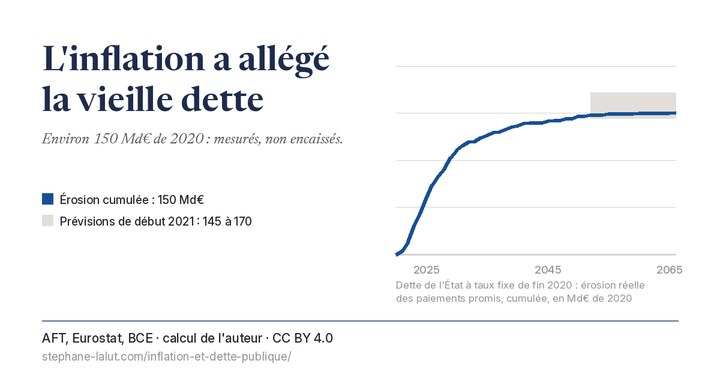
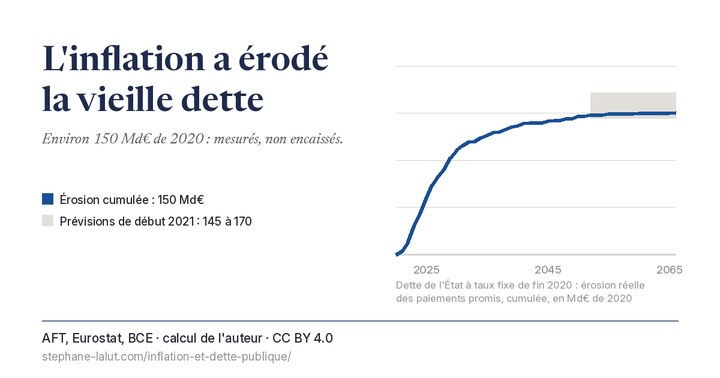
fix(inflation): page inflation et dette apres contre-expertise de la page en ligne (Wolf-05, 08/10) -- SPF dit zone euro et justifie comme reference (seul horizon au-dela de 2023, date d'information unique ; garde « encadrent », mutation encadre vue mordre) ; « l'avantage consolide se reduit » ; con

Changed region(s): [[0.3056, 0.1164, 0.4583, 0.2037]]

diff --git a/scripts/update_dette_inflation.py b/scripts/update_dette_inflation.py
@@ -15,7 +15,7 @@ Témoins de la méthode, dans le script de recherche : IPCH mensuel Eurostat con
 en moyennes annuelles (v2, 143,2) et sans correction saisonnière ; identité de consolidation contre l'arbitre 5. Ici, la
 seule cohérence vérifiée est l'agrégation par année de paiement, qui partage la fonction de perte : elle n'est pas un témoin.
 
-Usage : python scripts/update_dette_inflation.py [--check] [--mutation=demi|indexes|consolidation]
+Usage : python scripts/update_dette_inflation.py [--check] [--mutation=demi|indexes|consolidation|encadre]
 Sorties : data/ et static/dette_inflation.json, static/dette_inflation.csv, data/figures_inflation.json,
           static/img/dette-inflation-calendrier{,-en}.svg + .png
 """
@@ -123,6 +123,8 @@ def mutation(c):
         c["idx_j"] = 27.0
     elif m == "consolidation":  # la consolidation retirerait l'érosion pendant l'épisode
         c["cons23"] = 0.8 * c["T"]
+    elif m == "encadre":       # le SPF sortirait de l'intervalle des trois prévisions françaises
+        list(c["A"].values())[0]["r=0%"] = 999.0
     elif m is not None:
         fail("mutation inconnue : %s" % m)
     return m
@@ -143,6 +145,8 @@ def gardes(c):
     # cohérence (non indépendante : même fonction de perte) : l'agrégation par année redonne le total
     g(abs(c["cum"][max(c["cum"])] - T) <= 0.15, "le cumul par année de paiement ne redonne pas le total (%.1f contre %.1f)" % (c["cum"][max(c["cum"])], T))
     g(c["A_r0"][0] <= T <= c["A_r0"][1], "le central (SPF) doit être dans la plage de la famille A")
+    fr = [v["r=0%"] for v in list(c["A"].values())[1:]]  # Banque de France, Commission automne, hiver : propres à la France
+    g(min(fr) < list(c["A"].values())[0]["r=0%"] < max(fr), "« les trois prévisions propres à la France encadrent » le SPF : %s" % fr)
     g(min(c["B"].values()) > T, "« les points morts de marché donneraient davantage » : %s" % c["B"])
     g(c["T"] > c["T_annuel"], "« plus élevé que le calcul en moyennes annuelles »")
     g(abs(c["T_sans_saison"] - T) < 1.0, "« la correction saisonnière ne change presque rien »")
@@ -155,7 +159,7 @@ def gardes(c):
     g(c["defl_spf"] < c["T_annuel"] and c["defl_ce"] < c["T_annuel"], "« plus faible en unités de production intérieure »")
     g(abs(c["idx_j"] - 20) <= 2.5 and abs(c["idx_1"] - c["idx_j"]) <= 1.0, "« environ 20 Md€, la même chose avec un seul point mort » : %.1f / %.1f" % (c["idx_j"], c["idx_1"]))
     g(c["cons23"] >= 0.95 * T, "« consolidée, l'érosion reste presque entière fin 2023 » : %.1f" % c["cons23"])
-    g(c["cons25"] < c["cons23"] - 10, "« puis une partie est rendue en 2024-2025 »")
+    g(c["cons25"] < c["cons23"] - 10, "« puis l'avantage consolidé se réduit en 2024-2025 »")
     g(0.10 <= c["pal_residu"] / c["pal_total"] <= 0.16, "« résidu d'environ 13 %% » : %.3f" % (c["pal_residu"] / c["pal_total"]))
     g(c["charge_aft"][2022] == max(c["charge_aft"].values()), "« la charge d'indexation a culminé en 2022 »")
     g(0 < 100 - sum(c["parts"].values()) < 5 and c["parts"]["non_residents"] == max(c["parts"].values()),

diff --git a/scripts/og_dossier_dette.py b/scripts/og_dossier_dette.py
@@ -578,7 +578,7 @@ def carte_inflation() -> None:
     if not E:
         fail("carte inflation EN : bloc affichage_en absent de data/dette_inflation.json")
     carte("og-dette-inflation.jpg",
-          ["L'inflation a allégé", "la vieille dette"],
+          ["L'inflation a érodé", "la vieille dette"],
           "Environ %s Md€ de 2020 : mesurés, non encaissés." % A["t"],
           "AFT, Eurostat, BCE · calcul de l'auteur · CC BY 4.0",
           "stephane-lalut.com/inflation-et-dette-publique/",

diff --git a/content/inflation-et-dette-publique/_index.md b/content/inflation-et-dette-publique/_index.md
@@ -6,7 +6,7 @@ date: 2026-10-07
 lastmod: 2026-10-07
 og_title: "L'inflation a-t-elle vraiment allégé la dette française ? — S. Lalut"
 og_image: "images/og-dette-inflation.jpg"
-og_image_alt: "Carte de partage : « L'inflation a allégé la vieille dette » — érosion réelle cumulée des paiements promis sur la dette de l'État à taux fixe de fin 2020, au fil des paiements, et plage des prévisions publiées début 2021."
+og_image_alt: "Carte de partage : « L'inflation a érodé la vieille dette » — érosion réelle cumulée des paiements promis sur la dette de l'État à taux fixe de fin 2020, au fil des paiements, et plage des prévisions publiées début 2021."
 # Page née d'une question reçue le 6/10/2026. Recherche : dépôt de recherche de l'auteur, chantier inflation et dette (V3 du 07/10,
 # scripts/v3.py) ; quatre contre-expertises et arbitrage PRO-20261007-091811 (huit phrases, V3 en huit opérations).
 # Aucun chiffre saisi : jetons {infl.*} et shortcode infl-val (scripts/update_dette_inflation.py, extrait figé et empreintes
@@ -35,7 +35,7 @@ faq:
   - question: "Pourquoi n'est-ce pas un gain budgétaire pour l'État ?"
     answer: "Parce que l'érosion porte sur des paiements qui s'étalent jusqu'en {infl.fin} : un cinquième seulement avait été payé fin 2023, environ la moitié le sera d'ici {infl.demi}. Parce que l'État a émis ensuite à des taux plus élevés, sans qu'on puisse dire quelle part de cette hausse l'épisode a causée. Et parce que les titres indexés, la Banque de France et le numéraire choisi modifient la lecture : exprimée en unités de production intérieure plutôt qu'en pouvoir d'achat du consommateur, la même érosion est plus faible."
   - question: "Qui a perdu ce que la dette a perdu en valeur réelle ?"
-    answer: "Les porteurs directs des titres, d'abord : à la fin de 2020, la moitié de la dette négociable de l'État était détenue par des non-résidents, près d'un quart par la Banque de France. Mais le porteur direct n'est pas forcément le perdant final : les assureurs, les banques et les fonds ont eux-mêmes des engagements nominaux, et les titres changent de mains. La page donne une allocation mécanique selon la structure de détention de fin 2020, qui n'identifie pas l'incidence finale."
+    answer: "On sait quels secteurs détenaient les titres ; on ne sait pas en déduire qui a supporté la perte finale. À la fin de 2020, la moitié de la dette négociable de l'État était détenue par des non-résidents, près d'un quart par la Banque de France. Mais le porteur direct n'est pas forcément le perdant final : les assureurs, les banques et les fonds ont eux-mêmes des engagements nominaux, et les titres changent de mains. La page donne une allocation mécanique selon la structure de détention de fin 2020, qui n'identifie pas l'incidence finale."
   - question: "Quel est le lien avec le livre Dette publique : qui paie vraiment ?"
     answer: "L'inflation est l'un des payeurs possibles de la dette : l'épargnant, par la perte de pouvoir d'achat de ses titres. Cette page mesure ce que l'épisode de 2021-2023 a retiré par ce canal sur la dette de l'État, et ce qu'on ne peut pas en conclure. Le livre examine les autres payeurs et les choix qui les désignent."
 ressource:  # index /ressources/ (layouts/ressources/list.html)
@@ -83,7 +83,7 @@ Les données disponibles ne permettent pas d'identifier quelle part de la hausse
 
 **Les titres indexés ont joué en sens inverse.** Fin 2020, {{< infl-val "idx_n" >}}&nbsp;titres indexés sur l'inflation, pour {{< infl-val "idx_encours" >}}&nbsp;milliards d'euros, échappaient à l'érosion. Émis à taux fixe, ils auraient transféré environ {{< infl-val "idx" >}}&nbsp;milliards de plus. Dans le budget de l'État, leur charge d'indexation a culminé à {{< infl-val "charge22" >}}&nbsp;milliards d'euros courants en 2022 (AFT).
 
-<details class="repli"><summary>Consolidation simplifiée avec la Banque de France&nbsp;: l'érosion reste presque entière pendant l'épisode, puis une partie est rendue</summary>
+<details class="repli"><summary>Consolidation simplifiée avec la Banque de France&nbsp;: l'érosion reste presque entière pendant l'épisode, puis l'avantage consolidé se réduit</summary>
 
 Fin 2020, la Banque de France détenait {{< infl-val "s_bdf" >}}&nbsp;% de la dette négociable de l'État, achetée en créant des réserves bancaires. Dans un bilan qui réunit l'État et sa banque centrale, ces titres s'annulent contre l'actif de la banque centrale, et la dette de l'ensemble devient, pour cette part, la réserve, rémunérée au taux de la facilité de dépôt. L'identité s'écrit&nbsp;:
 
@@ -97,7 +97,7 @@ Parce que le taux de dépôt est resté à −0,5&nbsp;% jusqu'en juillet 2022 p
 
 ## Ce qui fait varier le chiffre {#sensibilite}
 
-**La prévision de départ.** Quatre prévisions d'inflation pour la France publiées entre novembre 2020 et février 2021 donnent&nbsp;: {{< infl-val "spf" >}}&nbsp;milliards avec l'enquête de la BCE auprès des prévisionnistes professionnels (janvier 2021, retenue comme référence), {{< infl-val "bdf" >}} avec les projections de la Banque de France (décembre 2020), {{< infl-val "ce_aut" >}} et {{< infl-val "ce_hiv" >}} avec celles de la Commission européenne (automne 2020, hiver 2021). La Commission ne publiait pas d'horizon 2023&nbsp;: sa prévision de 2022, 1,5&nbsp;%, est reconduite pour 2023, son dernier horizon publié. Au-delà de 2023, toutes reviennent au chemin de l'enquête de la BCE, si bien que seules les années de l'épisode diffèrent.
+**La prévision de départ.** Quatre prévisions d'inflation publiées entre novembre 2020 et février 2021 donnent&nbsp;: {{< infl-val "spf" >}}&nbsp;milliards avec l'enquête de la BCE auprès des prévisionnistes professionnels (janvier 2021, zone euro), {{< infl-val "bdf" >}} avec les projections de la Banque de France (décembre 2020), {{< infl-val "ce_aut" >}} et {{< infl-val "ce_hiv" >}} avec celles de la Commission européenne (automne 2020, hiver 2021). La Commission ne publiait pas d'horizon 2023&nbsp;: sa prévision de 2022, 1,5&nbsp;%, est reconduite pour 2023, son dernier horizon publié. Au-delà de 2023, toutes reviennent au chemin de l'enquête de la BCE, si bien que seules les années de l'épisode diffèrent. L'enquête de la BCE sert de référence parce qu'elle est la seule des quatre à couvrir tout l'horizon des paiements, au-delà de 2023 jusqu'au long terme, et qu'elle fixe une date d'information unique, janvier 2021, quand le niveau des prix de décembre 2020 est connu&nbsp;; elle porte sur la zone euro, et les trois prévisions propres à la France encadrent le résultat qu'elle donne.
 
 **Le prix de marché.** Les points morts d'inflation, écarts de rendement entre titres nominaux et indexés au 31&nbsp;décembre 2020 (AFT), donneraient davantage&nbsp;: {{< infl-val "b_fr" >}}&nbsp;milliards avec le point mort français à 10&nbsp;ans, {{< infl-val "b_eu" >}} avec celui de la zone euro. Ils incorporent des primes de risque et de liquidité, qui les tiraient alors vers le bas&nbsp;: ils ne servent ici qu'à la sensibilité, non à la plage.
 
@@ -128,7 +128,7 @@ Elles ne mesurent pas l'effet budgétaire total de l'inflation&nbsp;: ni les rec
 
 ## Ce qu'il faut retenir {#retenir}
 
-L'inflation a bien allégé la dette ancienne&nbsp;: environ {{< infl-val "t" >}}&nbsp;milliards d'euros de 2020 de paiements promis sur la dette de l'État à taux fixe de fin 2020 valent moins que prévu, et cette perte de valeur réelle ne sera pas rendue si l'écart de prix persiste.
+L'inflation a bien allégé la valeur réelle de la dette ancienne&nbsp;: environ {{< infl-val "t" >}}&nbsp;milliards d'euros de 2020 de paiements promis sur la dette de l'État à taux fixe de fin 2020 valent moins que prévu, et cette perte de valeur réelle ne sera pas rendue si l'écart de prix persiste.
 
 On mesure assez bien cette érosion de la vieille dette nominale. On ne peut pas, honnêtement, la convertir en un gain budgétaire aussi précis&nbsp;: elle se réalise lentement, elle se mesure différemment selon le numéraire, et le coût des financements qui ont suivi n'est pas attribuable à l'épisode dans une proportion connue.
 
@@ -158,7 +158,7 @@ Cette page mesure ce que l'inflation de 2021-2023 a retiré, en valeur réelle, 
 
 **Anticipations.** BCE, *Survey of Professional Forecasters*, premier trimestre 2021 (zone euro&nbsp;; 2024 interpolé entre ses horizons 2023 et 2025, puis son anticipation de long terme)&nbsp;; Banque de France, projections de décembre 2020&nbsp;; Commission européenne, prévisions d'automne 2020 et d'hiver 2021. Points morts au 31&nbsp;décembre 2020&nbsp;: AFT (source Bloomberg).
 
-**Titres indexés.** Les {{< infl-val "idx_n" >}}&nbsp;titres indexés de fin 2020 reçoivent, dans le contrefactuel, un coupon fixe égal à leur coupon réel augmenté du point mort de même indice et de même maturité&nbsp;: au 31&nbsp;décembre 2020, l'AFT publie quatre points (France 5 et 10&nbsp;ans, zone euro 10 et 30&nbsp;ans), interpolés selon la maturité résiduelle&nbsp;; faute de point court pour la zone euro, la courbe française est décalée de l'écart observé à 10&nbsp;ans. Résultat&nbsp;: {{< infl-val "idx_j" >}}&nbsp;milliards, contre {{< infl-val "idx_1" >}} avec le seul point mort à 10&nbsp;ans de la zone euro. En ajoutant l'écart entre l'indice de chaque titre et l'IPCH français ({{< infl-val "idx_ecart" >}}&nbsp;milliards), le coût économique de la protection atteint {{< infl-val "idx_tot" >}}&nbsp;milliards. La charge d'indexation de l'AFT ({{< infl-val "charge_cum" >}}&nbsp;milliards d'euros courants de 2021 à 2025) porte sur tout l'encours indexé de chaque année, émissions nouvelles comprises&nbsp;: ce n'est pas la même grandeur.
+**Titres indexés.** Les {{< infl-val "idx_n" >}}&nbsp;titres indexés de fin 2020 reçoivent, dans le contrefactuel, un coupon fixe égal à leur coupon réel augmenté du point mort de même indice et de même maturité&nbsp;: au 31&nbsp;décembre 2020, l'AFT publie quatre points (France 5 et 10&nbsp;ans, zone euro 10 et 30&nbsp;ans), interpolés selon la maturité résiduelle&nbsp;; faute de point court pour la zone euro, la courbe française est décalée de l'écart observé à 10&nbsp;ans. Résultat&nbsp;: {{< infl-val "idx_j" >}}&nbsp;milliards, contre {{< infl-val "idx_1" >}} avec le seul point mort à 10&nbsp;ans de la zone euro. En ajoutant l'écart entre l'indice de chaque titre et l'IPCH français ({{< infl-val "idx_ecart" >}}&nbsp;milliards), ce que la protection vendue aux porteurs a coûté à l'État, une fois le risque réalisé, atteint {{< infl-val "idx_tot" >}}&nbsp;milliards. La charge d'indexation de l'AFT ({{< infl-val "charge_cum" >}}&nbsp;milliards d'euros courants de 2021 à 2025) porte sur tout l'encours indexé de chaque année, émissions nouvelles comprises&nbsp;: ce n'est pas la même grandeur.
 
 **Consolidation.** Part de la Banque de France dans la dette négociable de l'État fin 2020&nbsp;: Banque de France, Webstat (détention par secteur, valeur de marché). Réserves approchées par la valeur de marché des avoirs de la Banque de France en titres de l'État en début d'année&nbsp;; taux de dépôt de la BCE en moyenne annuelle.
 
@@ -172,7 +172,7 @@ C'est une allocation mécanique, pas une mesure de qui a perdu. Les titres chang
 
 </details>
 
-Aucun chiffre de cette page n'est saisi à la main&nbsp;: tous viennent d'un calcul de l'auteur, reproductible, dont l'extrait est archivé avec ses empreintes&nbsp;; le script qui écrit la page vérifie les principales affirmations chiffrées et s'arrête si leurs conditions ne sont plus remplies. Le calcul a été soumis, avant l'écriture, à sept relectures internes et à quatre contre-expertises indépendantes.
+Aucun chiffre de cette page n'est saisi à la main&nbsp;: tous viennent d'un calcul de l'auteur, reproductible, dont l'extrait est archivé avec ses empreintes&nbsp;; le script qui écrit la page vérifie les principales affirmations chiffrées et s'arrête si leurs conditions ne sont plus remplies. Avant l'écriture, le calcul a été soumis à des contre-expertises externes, qui ont fait changer le calendrier des prix, la construction de la plage et le traitement des titres indexés.
 
 {{< reutiliser figures="figures_inflation" jeu="dette_inflation" sources="AFT, Eurostat, BCE, Banque de France, Commission européenne" donnees="L'érosion réelle cumulée par année de paiement, les résultats selon chaque prévision et chaque point mort, les titres indexés, la consolidation simplifiée et l'allocation mécanique par détenteur ; le même contenu existe en CSV, au format long." >}}
 Dans le contrefactuel de cette page, l'écart entre l'inflation réalisée en 2021-2023 et celle anticipée début 2021 réduit d'environ {{< infl-val "t" >}}&nbsp;milliards d'euros de 2020 la valeur réelle des paiements promis sur la dette de l'État à taux fixe de fin 2020 (de {{< infl-val "a_bas" >}} à {{< infl-val "a_haut" >}} selon la prévision retenue)&nbsp;; environ la moitié se matérialise d'ici {{< infl-val "demi" >}}. Ce n'est pas un gain budgétaire net identifiable.

diff --git a/content/inflation-et-dette-publique/_index.en.md b/content/inflation-et-dette-publique/_index.en.md
@@ -33,7 +33,7 @@ faq:
   - question: "Why is this not a fiscal gain for the State?"
     answer: "Because the erosion falls on payments spread out until {infl.fin}: only a fifth had been paid by end-2023, about half will have been by {infl.demi}. Because the State then borrowed at higher rates, and no one can say how much of that rise the episode caused. And because inflation-linked bonds, the Banque de France and the unit of account change the reading: measured in units of domestic output rather than in consumer purchasing power, the same erosion is smaller."
   - question: "Who lost what the debt lost in real value?"
-    answer: "The direct holders of the bonds, in the first place: at end-2020, half of France's negotiable State debt was held by non-residents and nearly a quarter by the Banque de France. But the direct holder is not necessarily the final loser: insurers, banks and funds have nominal liabilities of their own, and bonds change hands. The page gives a mechanical allocation by end-2020 holdings, which does not identify the final incidence."
+    answer: "We know which sectors held the bonds; we cannot infer from that who bore the final loss. At end-2020, half of France's negotiable State debt was held by non-residents and nearly a quarter by the Banque de France. But the direct holder is not necessarily the final loser: insurers, banks and funds have nominal liabilities of their own, and bonds change hands. The page gives a mechanical allocation by end-2020 holdings, which does not identify the final incidence."
 ressource:
   bloc: "dette"
   rang: 45
@@ -77,7 +77,7 @@ The available data do not identify how much of the later rise in funding costs w
 
 **Inflation-linked bonds worked the other way.** At end-2020, {{< infl-val "idx_n" >}} inflation-linked bonds, worth €{{< infl-val "idx_encours" >}}bn, escaped the erosion. Issued at a fixed rate, they would have transferred about €{{< infl-val "idx" >}}bn more. In the State budget, their indexation charge peaked at €{{< infl-val "charge22" >}}bn (current euros) in 2022 (AFT).
 
-<details class="repli"><summary>Simplified consolidation with the Banque de France: the erosion stays almost whole during the episode, then part of it is given back</summary>
+<details class="repli"><summary>Simplified consolidation with the Banque de France: the erosion stays almost whole during the episode, then the consolidated advantage shrinks</summary>
 
 At end-2020 the Banque de France held {{< infl-val "s_bdf" >}}% of the State's negotiable debt, bought by creating bank reserves. In a balance sheet that combines the State and its central bank, those bonds cancel against the central bank's assets, and the liability of the whole becomes, for that share, the reserves, remunerated at the deposit facility rate. The identity reads:
 
@@ -91,7 +91,7 @@ Because the deposit rate stayed at −0.5% until July 2022 while prices rose, re
 
 ## What moves the number {#sensibilite}
 
-**The starting forecast.** Four inflation forecasts for France published between November 2020 and February 2021 give: €{{< infl-val "spf" >}}bn with the ECB Survey of Professional Forecasters (January 2021, used as the reference), {{< infl-val "bdf" >}} with the Banque de France projections (December 2020), {{< infl-val "ce_aut" >}} and {{< infl-val "ce_hiv" >}} with those of the European Commission (autumn 2020, winter 2021). The Commission published no 2023 horizon: its 2022 forecast, 1.5%, is carried over to 2023, its last published horizon. Beyond 2023, all of them return to the ECB survey's path, so only the years of the episode differ.
+**The starting forecast.** Four inflation forecasts published between November 2020 and February 2021 give: €{{< infl-val "spf" >}}bn with the ECB Survey of Professional Forecasters (January 2021, euro area), {{< infl-val "bdf" >}} with the Banque de France projections (December 2020), {{< infl-val "ce_aut" >}} and {{< infl-val "ce_hiv" >}} with those of the European Commission (autumn 2020, winter 2021). The Commission published no 2023 horizon: its 2022 forecast, 1.5%, is carried over to 2023, its last published horizon. Beyond 2023, all of them return to the ECB survey's path, so only the years of the episode differ. The ECB survey is the reference because it is the only one of the four to cover the whole horizon of payments, beyond 2023 to the long term, and it fixes a single information date, January 2021, when the December 2020 price level is known; it covers the euro area, and the three forecasts specific to France bracket the result it gives.
 
 **The market price.** Breakeven inflation rates, the yield gap between nominal and inflation-linked bonds at 31 December 2020 (AFT), would give more: €{{< infl-val "b_fr" >}}bn with the French 10-year breakeven, {{< infl-val "b_eu" >}} with the euro-area one. They embed risk and liquidity premia, which then pulled them down: they serve only as a sensitivity here, not for the range.
 
@@ -122,7 +122,7 @@ They do not measure the total fiscal effect of inflation: neither tax revenue sw
 
 ## Key takeaways {#retenir}
 
-Inflation did ease the old debt: about €{{< infl-val "t" >}}bn of 2020 of payments promised on France's fixed-rate State debt at end-2020 are worth less than expected, and that loss of real value will not be given back if the price gap persists.
+Inflation did ease the real value of the old debt: about €{{< infl-val "t" >}}bn of 2020 of payments promised on France's fixed-rate State debt at end-2020 are worth less than expected, and that loss of real value will not be given back if the price gap persists.
 
 We can measure the erosion of the old nominal debt quite well. What we cannot honestly turn it into is an equally precise fiscal gain: it is realised slowly, it is measured differently depending on the unit of account, and the cost of the borrowing that followed cannot be attributed to the episode in any known proportion.
 
@@ -142,7 +142,7 @@ This page measures what the 2021-2023 inflation took, in real terms, from the St
 
 **Expectations.** ECB, *Survey of Professional Forecasters*, first quarter of 2021 (euro area; 2024 interpolated between its 2023 and 2025 horizons, then its long-term expectation); Banque de France, December 2020 projections; European Commission, autumn 2020 and winter 2021 forecasts. Breakevens at 31 December 2020: AFT (Bloomberg data).
 
-**Inflation-linked bonds.** In the counterfactual, the {{< infl-val "idx_n" >}} inflation-linked bonds outstanding at end-2020 receive a fixed coupon equal to their real coupon plus the breakeven of the same index and maturity: at 31 December 2020 the AFT publishes four points (France 5 and 10 years, euro area 10 and 30 years), interpolated by residual maturity; with no short euro-area point, the French curve is shifted by the gap observed at 10 years. Result: €{{< infl-val "idx_j" >}}bn, against {{< infl-val "idx_1" >}} with the euro-area 10-year breakeven alone. Adding the gap between each bond's index and the French HICP (€{{< infl-val "idx_ecart" >}}bn), the economic cost of the protection reaches €{{< infl-val "idx_tot" >}}bn. The AFT's indexation charge (€{{< infl-val "charge_cum" >}}bn in current euros from 2021 to 2025) covers the whole indexed stock of each year, new issues included: it is not the same quantity.
+**Inflation-linked bonds.** In the counterfactual, the {{< infl-val "idx_n" >}} inflation-linked bonds outstanding at end-2020 receive a fixed coupon equal to their real coupon plus the breakeven of the same index and maturity: at 31 December 2020 the AFT publishes four points (France 5 and 10 years, euro area 10 and 30 years), interpolated by residual maturity; with no short euro-area point, the French curve is shifted by the gap observed at 10 years. Result: €{{< infl-val "idx_j" >}}bn, against {{< infl-val "idx_1" >}} with the euro-area 10-year breakeven alone. Adding the gap between each bond's index and the French HICP (€{{< infl-val "idx_ecart" >}}bn), what the protection sold to holders cost the State, once the risk materialised, reaches €{{< infl-val "idx_tot" >}}bn. The AFT's indexation charge (€{{< infl-val "charge_cum" >}}bn in current euros from 2021 to 2025) covers the whole indexed stock of each year, new issues included: it is not the same quantity.
 
 **Consolidation.** Banque de France share of the State's negotiable debt at end-2020: Banque de France, Webstat (holdings by sector, market value). Reserves proxied by the market value of the Banque de France's holdings of State bonds at the start of each year; ECB deposit rate, annual average.
 
@@ -156,7 +156,7 @@ This is a mechanical allocation, not a measure of who lost. Bonds change hands o
 
 </details>
 
-No number on this page is typed by hand: all come from a reproducible calculation by the author, whose extract is archived with its checksums; the script that writes the page checks the main numerical statements and stops if their conditions no longer hold. Before the page was written, the calculation went through seven internal reviews and four independent counter-reviews.
+No number on this page is typed by hand: all come from a reproducible calculation by the author, whose extract is archived with its checksums; the script that writes the page checks the main numerical statements and stops if their conditions no longer hold. Before the page was written, the calculation went through external counter-reviews, which changed the price timing, the construction of the range and the treatment of inflation-linked bonds.
 
 {{< reutiliser figures="figures_inflation" jeu="dette_inflation" sources="AFT, Eurostat, ECB, Banque de France, European Commission" donnees="Cumulative real erosion by year of payment, results for each forecast and each breakeven, inflation-linked bonds, simplified consolidation and mechanical allocation by holder; the same content is available as CSV, in long format." >}}
 In this page's counterfactual, the gap between realised 2021-2023 inflation and the inflation expected in early 2021 cuts by about €{{< infl-val "t" >}}bn of 2020 the real value of the payments promised on France's fixed-rate State debt at end-2020 (€{{< infl-val "a_bas" >}}bn to €{{< infl-val "a_haut" >}}bn depending on the forecast used); about half materialises by {{< infl-val "demi" >}}. It is not an identifiable net fiscal gain.
